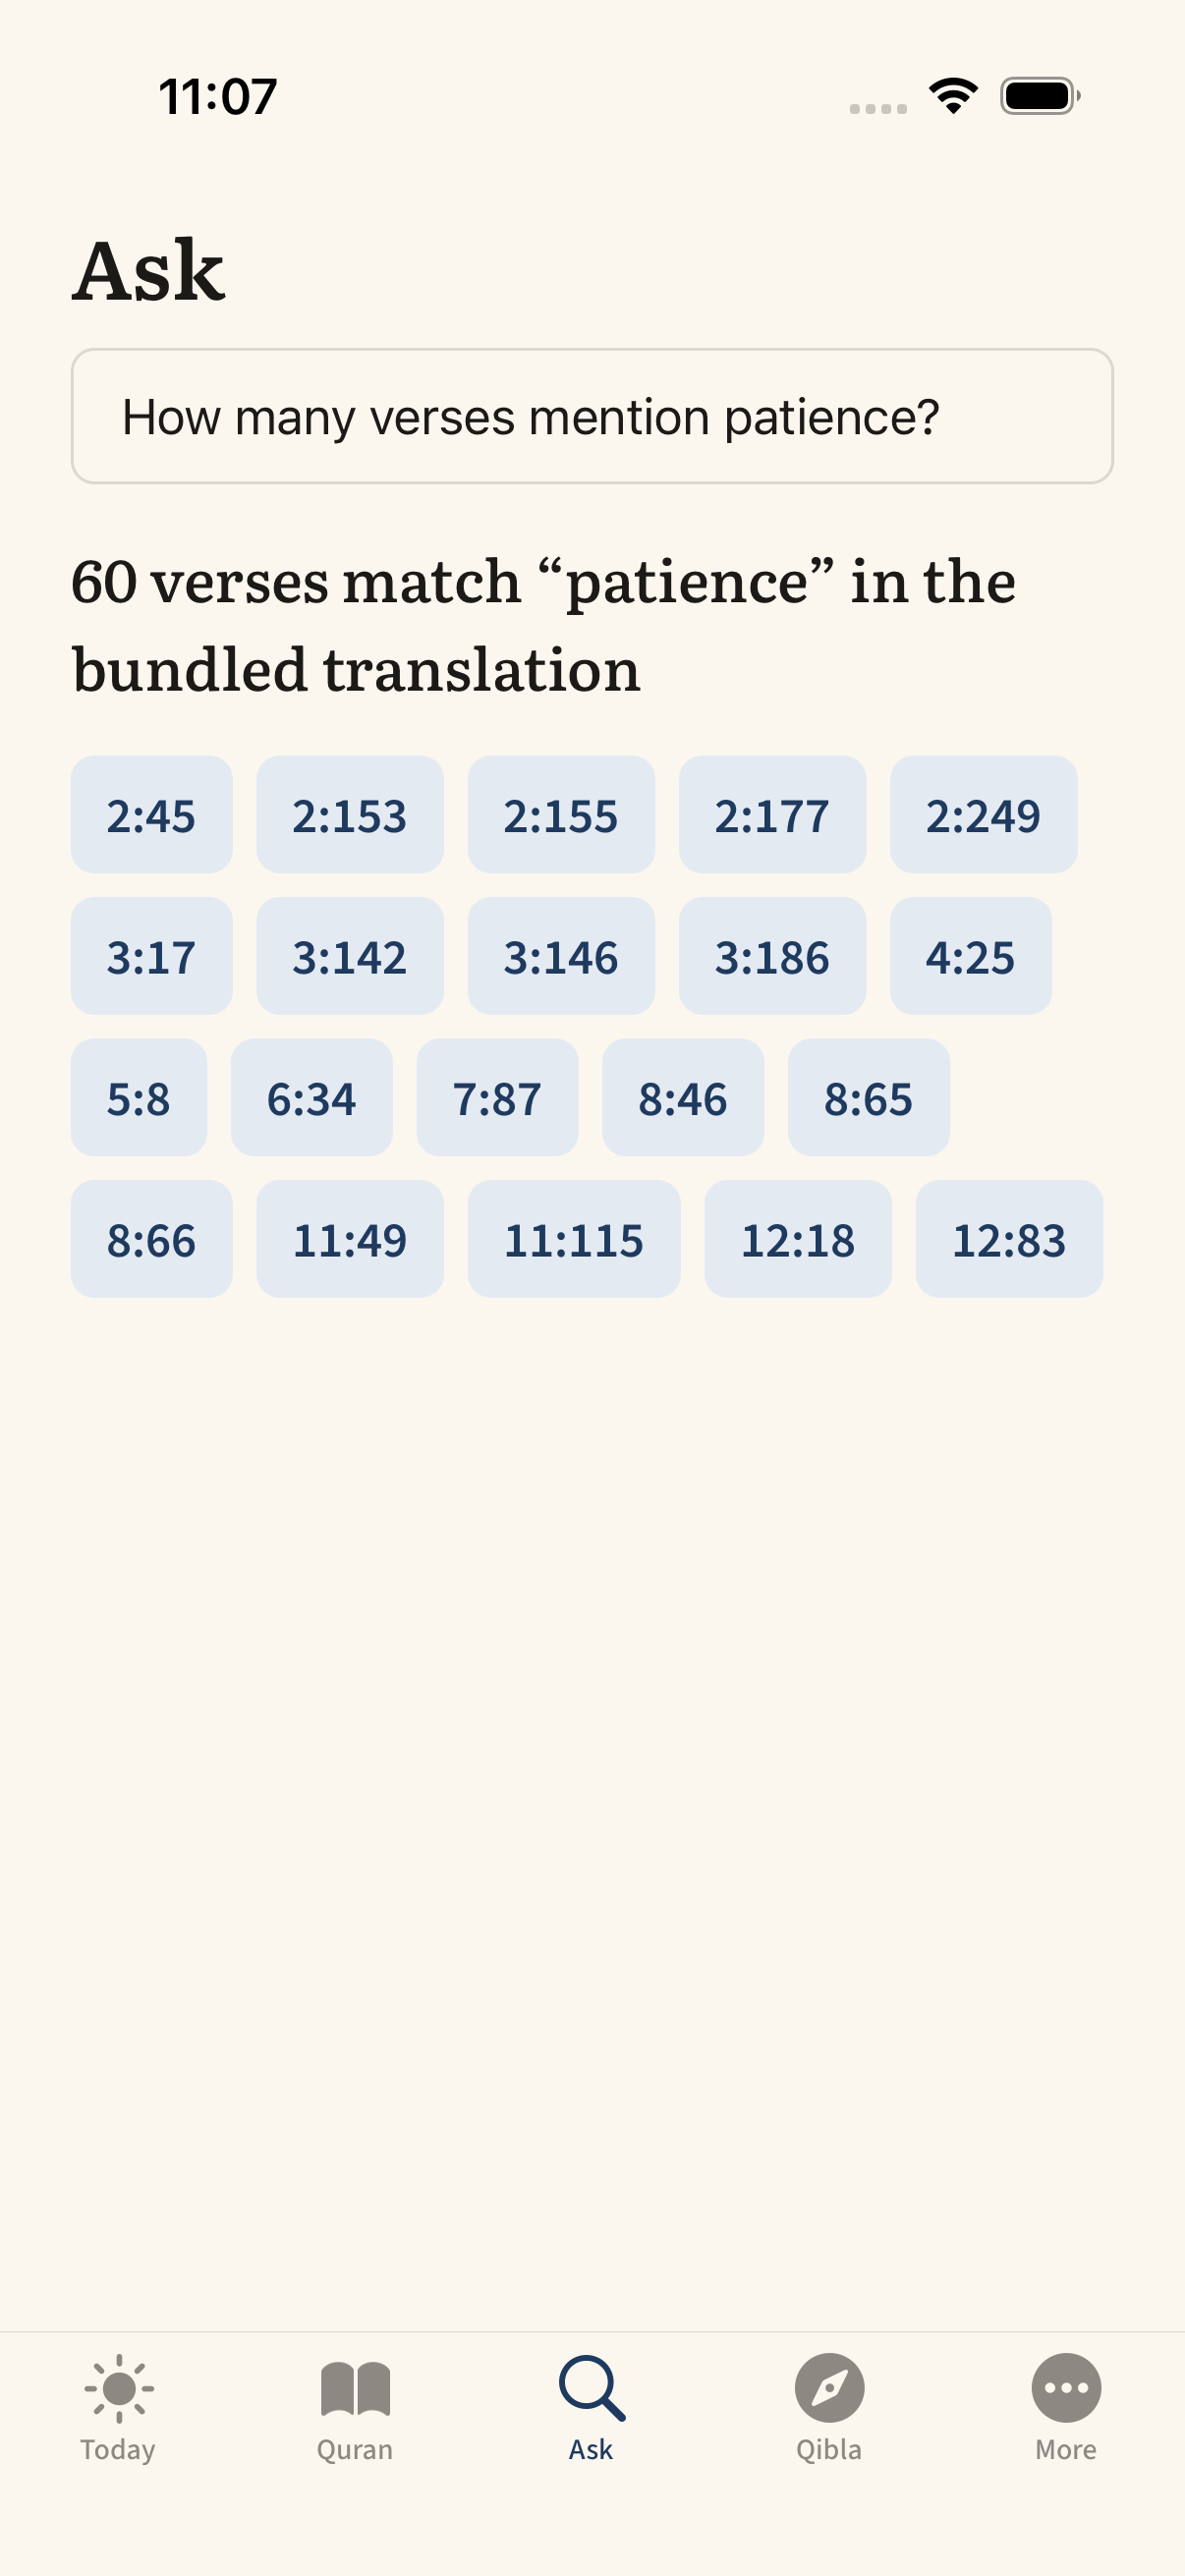
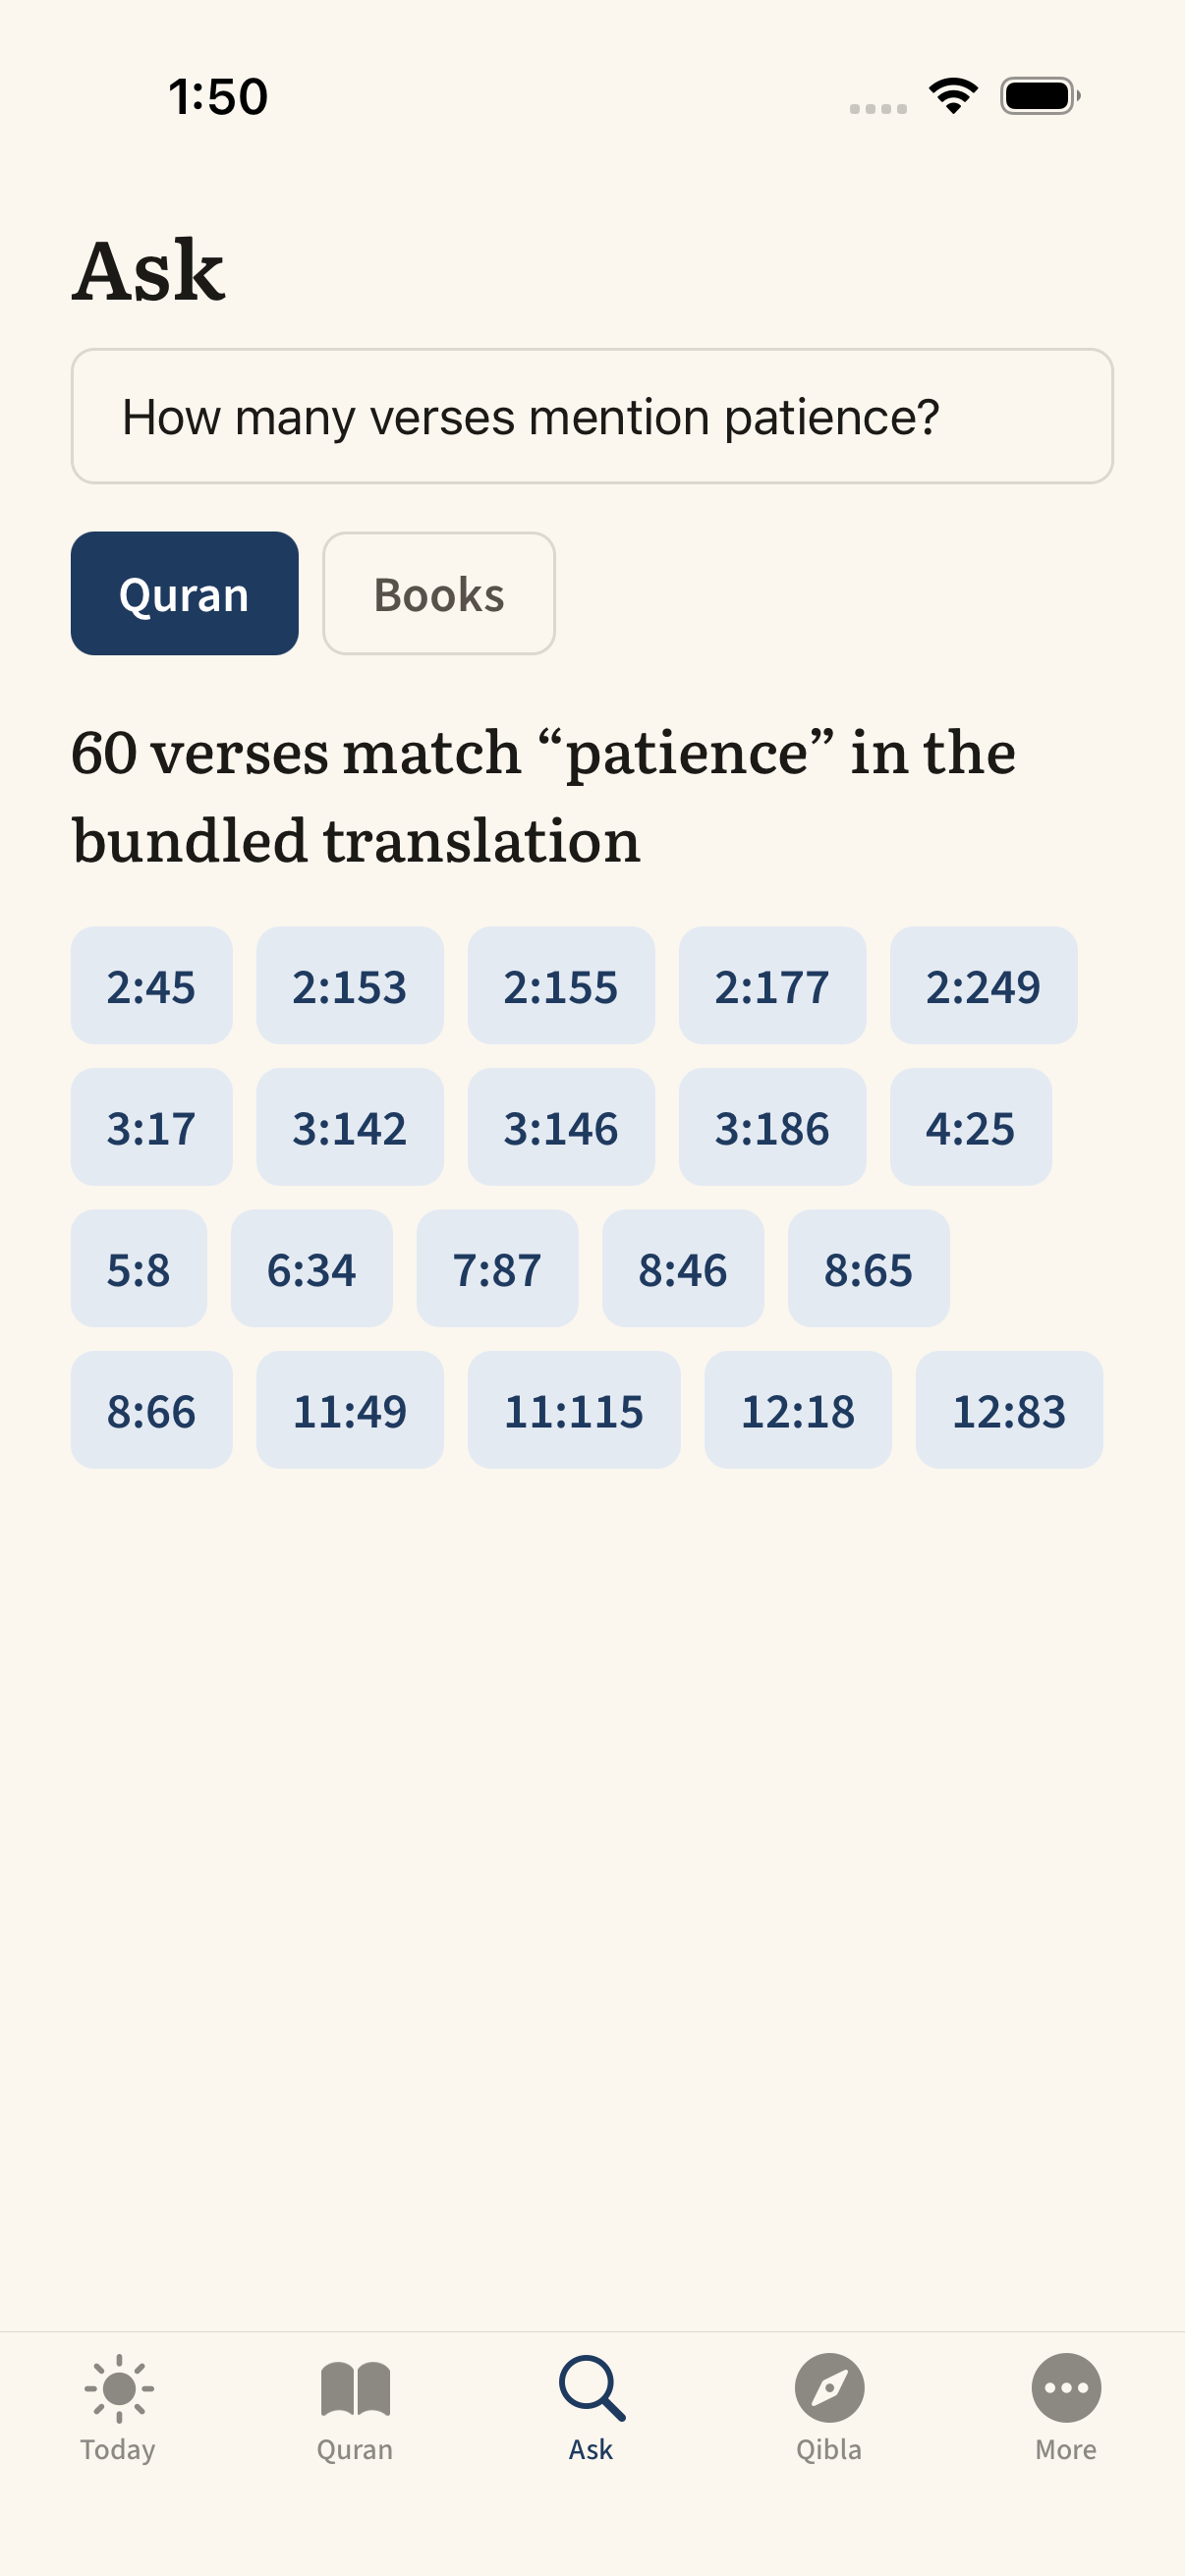
feat(ask): E10 cross-source filter — Books search with Tier A discipline

diff --git a/src/features/ask/components/AskScreen.tsx b/src/features/ask/components/AskScreen.tsx
@@ -5,11 +5,15 @@ import { useTranslation } from 'react-i18next';
 import { Pressable, ScrollView, StyleSheet, TextInput, View } from 'react-native';
 import { useSafeAreaInsets } from 'react-native-safe-area-context';
 
-import { ask, AskResponse } from '../router';
-import { AyahRow } from '../../quran/repo';
+import { ask, AskResponse, extractTerms } from '../router';
+import { askLibrary, LibraryAskResponse, sectionSnippet } from '../libraryAsk';
+import { openLibraryDb } from '../../library/libraryDb';
+import { AyahRow, QuranDb } from '../../quran/repo';
 import { ThemedText } from '@/components/themed-text';
 import { fonts, fontSize, radius, spacing } from '@/src/lib/theme/tokens';
 import { useTokens } from '@/src/lib/theme/useTokens';
+
+type AskSource = 'quran' | 'library';
 
 export function AskScreen() {
   const insets = useSafeAreaInsets();
@@ -18,11 +22,31 @@ export function AskScreen() {
   const router = useRouter();
   const db = useSQLiteContext();
   const [input, setInput] = useState('');
+  const [source, setSource] = useState<AskSource>('quran');
   const [response, setResponse] = useState<AskResponse | null>(null);
+  const [libResponse, setLibResponse] = useState<LibraryAskResponse | null>(null);
 
   const submit = () => {
     const q = input.trim();
+    if (source === 'library') {
+      setResponse(null);
+      if (!q) {
+        setLibResponse(null);
+        return;
+      }
+      void openLibraryDb().then((libDb) => {
+        setLibResponse(askLibrary(libDb as unknown as QuranDb, q));
+      });
+      return;
+    }
+    setLibResponse(null);
     setResponse(q ? ask(db, q) : null);
+  };
+
+  const switchSource = (next: AskSource) => {
+    setSource(next);
+    setResponse(null);
+    setLibResponse(null);
   };
 
   const openRef = (row: AyahRow) => router.push(`/surah/${row.surah}?ayah=${row.ayah}`);
@@ -89,10 +113,72 @@ export function AskScreen() {
         style={[styles.input, { color: t.textPrimary, borderColor: t.border }]}
       />
 
+      <View style={styles.sourceRow}>
+        {(['quran', 'library'] as const).map((s) => (
+          <Pressable
+            key={s}
+            accessibilityRole="button"
+            testID={`ask-source-${s}`}
+            onPress={() => switchSource(s)}
+            style={[
+              styles.sourceChip,
+              source === s
+                ? { backgroundColor: t.accent }
+                : { borderColor: t.border, borderWidth: 1 },
+            ]}
+          >
+            <ThemedText
+              type="defaultSemiBold"
+              style={{ color: source === s ? t.textOnAccent : t.textSecondary }}
+            >
+              {tr(s === 'quran' ? 'ask.sourceQuran' : 'ask.sourceLibrary')}
+            </ThemedText>
+          </Pressable>
+        ))}
+      </View>
+
       <ScrollView contentContainerStyle={styles.scroll} keyboardShouldPersistTaps="handled">
-        {response === null && (
+        {response === null && libResponse === null && (
           <ThemedText type="serifBody" style={[styles.hint, { color: t.textSecondary }]}>
-            {tr('ask.hint')}
+            {tr(source === 'library' ? 'ask.hintLibrary' : 'ask.hint')}
+          </ThemedText>
+        )}
+
+        {libResponse?.kind === 'sections' && (
+          <View testID="ask-sections" style={styles.verseList}>
+            {libResponse.refs.map((ref) => (
+              <Pressable
+                key={ref.id}
+                accessibilityRole="button"
+                testID={`book-section-${ref.id}`}
+                onPress={() => router.push(`/work/${ref.work_id}?section=${ref.section_index}`)}
+                style={[styles.verseRow, { borderBottomColor: t.border }]}
+              >
+                <ThemedText type="defaultSemiBold" style={{ color: t.accent }}>
+                  {ref.title}
+                </ThemedText>
+                <ThemedText type="serifBody" numberOfLines={3} style={{ color: t.textSecondary }}>
+                  {sectionSnippet(ref.body, extractTerms(input))}
+                </ThemedText>
+              </Pressable>
+            ))}
+          </View>
+        )}
+
+        {libResponse?.kind === 'rulingRedirect' && (
+          <View
+            testID="ask-redirect-library"
+            style={[styles.redirectCard, { backgroundColor: t.ochreSoft }]}
+          >
+            <ThemedText type="serifBody" style={{ color: t.ochre }}>
+              {tr('ask.redirect')}
+            </ThemedText>
+          </View>
+        )}
+
+        {libResponse?.kind === 'empty' && (
+          <ThemedText testID="ask-empty-library" style={[styles.hint, { color: t.textSecondary }]}>
+            {tr('ask.empty')}
           </ThemedText>
         )}
 
@@ -138,6 +224,15 @@ const styles = StyleSheet.create({
     paddingVertical: spacing.m,
     fontSize: fontSize.body,
     marginBottom: spacing.l,
+  },
+  sourceRow: { flexDirection: 'row', gap: spacing.s, marginBottom: spacing.l },
+  sourceChip: {
+    borderRadius: radius.control,
+    paddingHorizontal: spacing.l,
+    paddingVertical: spacing.s,
+    minHeight: 36,
+    alignItems: 'center',
+    justifyContent: 'center',
   },
   scroll: { paddingBottom: spacing.xxl },
   hint: { textAlign: 'center', marginTop: spacing.xl, opacity: 0.9 },

diff --git a/src/features/ask/__tests__/libraryAsk.test.ts b/src/features/ask/__tests__/libraryAsk.test.ts
@@ -1,0 +1,74 @@
+/**
+ * @jest-environment node
+ *
+ * Ask-over-library runs against the REAL committed library.db.
+ */
+import Database from 'better-sqlite3';
+import path from 'node:path';
+
+import { askLibrary, sectionSnippet } from '../libraryAsk';
+import { QuranDb } from '../../quran/repo';
+
+const raw = new Database(
+  path.resolve(__dirname, '..', '..', '..', '..', 'assets', 'db', 'library.db'),
+  { readonly: true, fileMustExist: true }
+);
+const db: QuranDb = {
+  getAllSync: (sql, params = []) => raw.prepare(sql).all(...params) as never,
+  getFirstSync: (sql, params = []) => (raw.prepare(sql).get(...params) as never) ?? null,
+};
+afterAll(() => raw.close());
+
+describe('askLibrary over the shipped db', () => {
+  test('topical query returns sections with work titles and bodies', () => {
+    const res = askLibrary(db, 'knowledge of the soul');
+    expect(res.kind).toBe('sections');
+    if (res.kind !== 'sections') return;
+    expect(res.refs.length).toBeGreaterThan(0);
+    expect(res.refs.length).toBeLessThanOrEqual(20);
+    for (const ref of res.refs) {
+      expect(ref.title.length).toBeGreaterThan(0);
+      expect(ref.body.length).toBeGreaterThan(0);
+      expect(ref.work_id).toBeGreaterThan(0);
+    }
+  });
+
+  test('ruling-seeking queries get the fixed redirect, never book passages', () => {
+    expect(askLibrary(db, 'is music haram?')).toEqual({ kind: 'rulingRedirect' });
+    expect(askLibrary(db, 'should I take this loan')).toEqual({ kind: 'rulingRedirect' });
+  });
+
+  test('no matches and blank input are honest empties', () => {
+    expect(askLibrary(db, 'zzxqwv unfindable').kind).toBe('empty');
+    expect(askLibrary(db, '   ').kind).toBe('empty');
+    // Stopword-only queries extract no terms.
+    expect(askLibrary(db, 'the and of').kind).toBe('empty');
+  });
+
+  test('results deep-link into real works (ids resolve)', () => {
+    const res = askLibrary(db, 'heart');
+    expect(res.kind).toBe('sections');
+    if (res.kind !== 'sections') return;
+    const work = raw.prepare('SELECT id FROM works WHERE id = ?').get(res.refs[0].work_id) as
+      { id: number } | undefined;
+    expect(work?.id).toBe(res.refs[0].work_id);
+  });
+});
+
+describe('sectionSnippet', () => {
+  const body =
+    'It is a long established truth that the heart which remembers finds rest, ' +
+    'and the seeker of knowledge travels far beyond the boundaries of the known world.';
+
+  test('windows around the first matched term with ellipses', () => {
+    const snip = sectionSnippet(body, ['knowledge'], 60);
+    expect(snip).toContain('knowledge');
+    expect(snip.startsWith('…')).toBe(true);
+    expect(snip.endsWith('…')).toBe(true);
+  });
+
+  test('falls back to the opening when no term matches', () => {
+    const snip = sectionSnippet(body, ['unfindable'], 40);
+    expect(snip.startsWith('It is a long')).toBe(true);
+  });
+});

diff --git a/src/features/ask/libraryAsk.ts b/src/features/ask/libraryAsk.ts
@@ -1,0 +1,48 @@
+import { detectIntent, extractTerms } from './router';
+import { searchSections, SectionRow } from '../library/repo';
+import { QuranDb } from '../quran/repo';
+
+/**
+ * Ask over the philosophers library (E10 cross-source filter). Same Tier A
+ * discipline as the Quran path: deterministic FTS only, and ruling-seeking
+ * questions get the fixed scholar redirect — classical books are sources to
+ * read, not a fatwa machine. No synonym expansion: these are translated
+ * literary texts, so we match the user's own words only.
+ */
+export type LibraryAskResponse =
+  | { kind: 'sections'; refs: (SectionRow & { title: string })[] }
+  | { kind: 'rulingRedirect' }
+  | { kind: 'empty' };
+
+export const MAX_SECTION_REFS = 20;
+
+export function askLibrary(db: QuranDb, rawQuery: string): LibraryAskResponse {
+  const query = rawQuery.trim();
+  if (query.length === 0) return { kind: 'empty' };
+
+  if (detectIntent(query) === 'ruling') return { kind: 'rulingRedirect' };
+
+  const terms = extractTerms(query);
+  if (terms.length === 0) return { kind: 'empty' };
+
+  const refs = searchSections(db, terms.join(' '), MAX_SECTION_REFS);
+  if (refs.length === 0) return { kind: 'empty' };
+  return { kind: 'sections', refs };
+}
+
+/** Short display snippet around the first matched term (plain slice — the
+ * body is immutable source text; we never alter it, only window it). */
+export function sectionSnippet(body: string, terms: string[], maxLength = 180): string {
+  const lower = body.toLowerCase();
+  let at = -1;
+  for (const term of terms) {
+    const i = lower.indexOf(term.toLowerCase());
+    if (i >= 0 && (at === -1 || i < at)) at = i;
+  }
+  // Lead-in is a third of the window so the matched term always lands inside.
+  const start = Math.max(0, at === -1 ? 0 : at - Math.floor(maxLength / 3));
+  const slice = body.slice(start, start + maxLength).trim();
+  const prefix = start > 0 ? '…' : '';
+  const suffix = start + maxLength < body.length ? '…' : '';
+  return `${prefix}${slice}${suffix}`;
+}

diff --git a/docs/PROGRESS.md b/docs/PROGRESS.md
@@ -154,7 +154,11 @@ Done: Maestro installed; e2e/smoke.yaml green twice on iPhone 17 sim (Today -> M
 - op-sqlite 17.1.2 (+sqliteVec) broke the SDK 54 precompiled React core at link time → RN now builds from source (plugins/withRNFromSource.js), which surfaced the known fmt-11/Apple-Clang-21 consteval breakage → fixed by compiling the fmt pod as C++17 AFTER react_native_post_install (plugins/withFmtConstevalFix.js). llama.rn 0.12.6 then landed with zero extra patches. Full stack builds; smoke/onboarding/audio flows green on the new binary. Clean builds now ~20 min (from-source) until SDK 56.
 - VectorStore (memory + sqlite-vec impls, 384-dim, rowid=ayahId, vectors.db separate from quran.db), llamaRuntime adapter for the tested LlmRuntime contract, TierBCard download/manage UI (gate-7 invisible; all states tested), ask.tierb i18n ×3. 333 tests green.
 
-## Next: E9 remainder is model-blocked (BLOCKERS A). Unblocked queue: Ask library source filter, AskScreen Tier B dormant wiring, FlashList pass, Dynamic Type + RTL audits.
+## Session 2026-07-13 (cont. 17) — Ask cross-source library filter (closes E10 remainder)
+
+- Ask gains a Quran/Books source toggle: Books searches the philosopher library's FTS sections with the same Tier A discipline (deterministic only, ruling queries still get the fixed scholar redirect, no synonym expansion on translated literary text). Results show work title + match-centered snippet and deep-link into the work reader at the exact section. askLibrary + snippet windowing unit-tested against the real committed library.db; Maestro ask flow extended and green; i18n ×3. 339 tests green.
+
+## Next: E9 remainder is model-blocked (BLOCKERS A). Unblocked queue: AskScreen Tier B dormant wiring, FlashList pass, Dynamic Type + RTL audits.
 
 ## Next: start here
 

diff --git a/docs/TODO.md b/docs/TODO.md
@@ -13,7 +13,7 @@ Epics in build order. Top unblocked item is always the current task.
 - [x] E7. Navigation feel pass — DONE 2026-07-13 (enableScreens/enableFreeze, freezeOnBlur tabs, tokenized nav chrome pre-existing, native push kept for system Reduce Motion, reader load deferred past transition; real-device profile on TESTPLAN)
 - [x] E8. Ask Tier A — DONE 2026-07-13 (query router count/list/ruling/topical incl. Arabic patterns, conservative synonym expansion, exact FTS counts phrased as corpus facts, fixed ruling redirect (SCHOLAR flag), 64 ground-truth fixtures derived from the committed db, 72-test harness that gates E9, terse UI w/ tappable citation deep-links, 5th tab, Maestro flow green, i18n ×3 incl. AR 6-form count plurals)
 - [~] E9. Ask Tier B — CORE DONE 2026-07-13 (contract+harness, gate-7 flag OFF, capability gate, hybrid merge, R2-only download manager, inert model.lock); NATIVE STACK DONE 2026-07-13 (op-sqlite+sqlite-vec+llama.rn compile via RN-from-source + fmt C++17 plugins; VectorStore w/ memory+sqlite-vec impls; llamaRuntime adapter; TierBCard UI states tested). REMAINING (model-blocked, BLOCKERS A): embeddings generation, on-device inference checks, AskScreen wiring + library source filter
-- [~] E10. Philosophers library — CORPUS+DATA DONE 2026-07-13 (3 PD-verified Gutenberg works pinned w/ per-page license verification: Field/Ghazali #58977, Davis/Rumi #45159, Nawab Ali/Ghazali #73140; library.db 308 FTS sections + golden tests incl. license-log completeness + pre-1930 gate; 16 thinker pages drafted + Gate 9 flagged). REMAINING: Library screens (list/thinker/reader/search), Ask source filter, i18n chrome
+- [x] E10. Philosophers library — CORPUS+DATA DONE 2026-07-13 (3 PD-verified Gutenberg works pinned w/ per-page license verification: Field/Ghazali #58977, Davis/Rumi #45159, Nawab Ali/Ghazali #73140; library.db 308 FTS sections + golden tests incl. license-log completeness + pre-1930 gate; 16 thinker pages drafted + Gate 9 flagged). Library UI shipped as E10b; Ask cross-source filter DONE 2026-07-13 (Quran/Books toggle, deterministic section search + redirect discipline, deep-links, tests vs real db)
 - [x] E10b. Library UI — DONE 2026-07-13 (thinker list w/ pending-review banner, thinker pages w/ key ideas + linked bundled works, serif work reader w/ section deep-links + PD attribution line, FTS search over books, /library via More, i18n chrome ×3, library.db opened via expo-asset copy + size-compare refresh). Ask cross-source filter deferred to E9 native session
 - [~] E11. IN PROGRESS — About/attribution/privacy screen DONE 2026-07-13; onboarding first-run flow DONE 2026-07-13 (welcome→city→reminders steps, kv flag `onboarded.v1`, redirect from Today, Maestro e2e/onboarding.yaml incl. relaunch-persistence assert, i18n ×3); recitation streaming player DONE 2026-07-13 (expo-audio, R2-or-hidden source rule, per-reciter resume store, lock-screen metadata + background mode, honest DEV-tone badge, 21 tests + e2e/audio.yaml vs local range-request server; REAL recordings still gate 5/BLOCKERS 2); tip jar DONE 2026-07-13 (TipsBackend interface, key-less honest unavailable state, purchase/restore/thanks flows, rule-3 copy-audit test ×3 locales, e2e/tips.yaml; live products await RevenueCat key + ASC — BLOCKERS 1); offline E2E suite DONE 2026-07-13 (e2e/offline.yaml vs RELEASE build w/ zero servers: onboarding→times→Quran→Ask→qibla→tasbih→zakat→calendar + 5 offline cold starts + release-hides-audio assert; device airplane pass on TESTPLAN); store prep DONE 2026-07-13 (fastlane/metadata drafts: name/subtitle/description/keywords/promo/review-notes/privacy-answers, READY FOR HUMAN SUBMIT checklist in BLOCKERS; submission itself = gates 1-2). E11 COMPLETE except items waiting on humans (recordings, RevenueCat key, reviews)
 